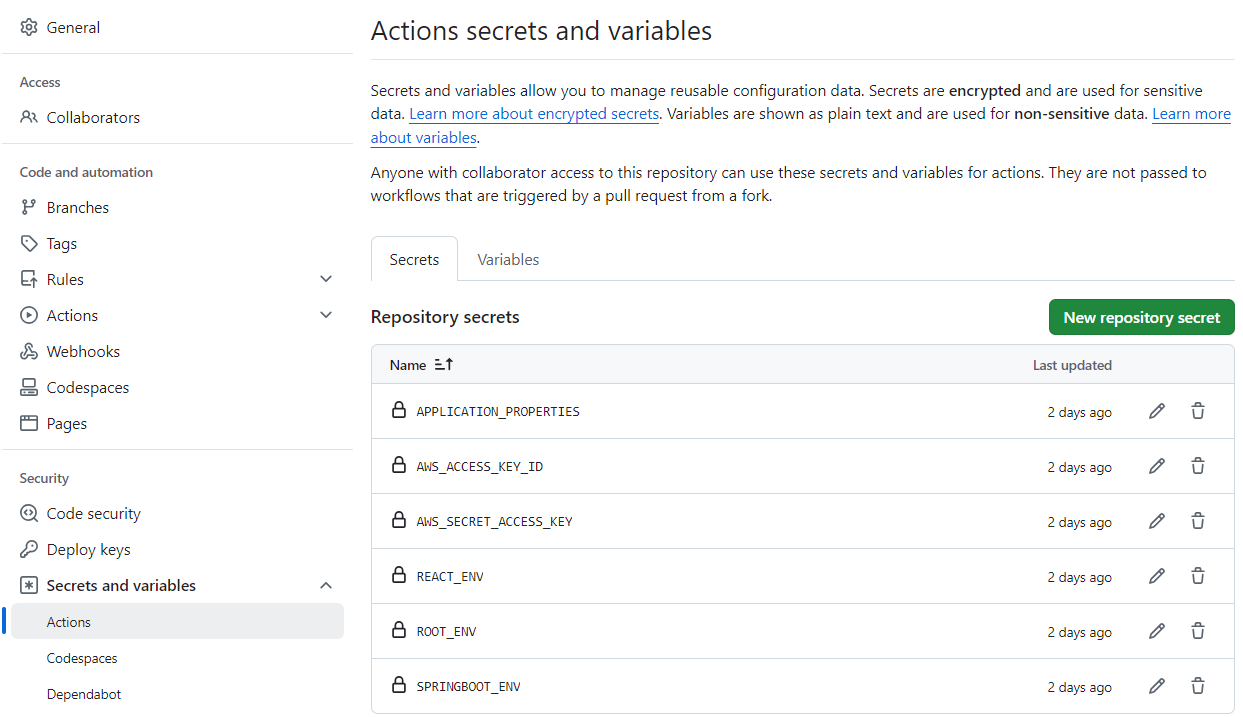
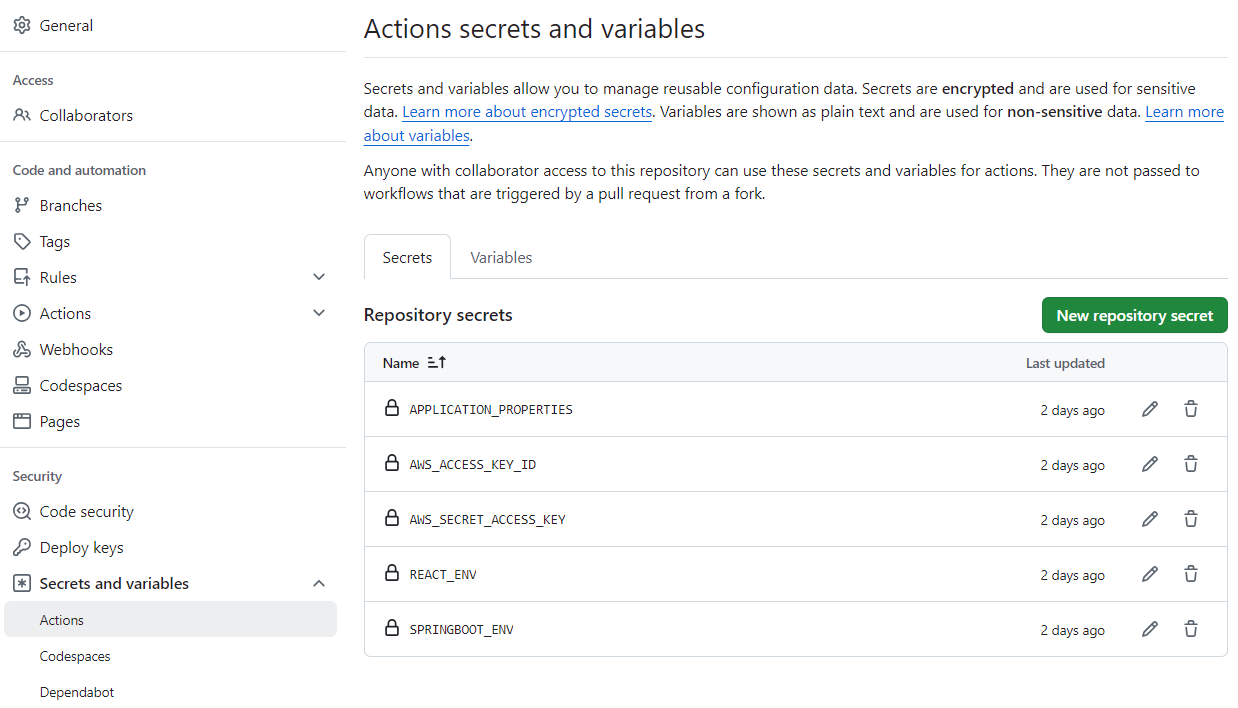
refactor(root.env): 배포 환경에서 root 경로의 .env 파일 제거
root 경로의 .env 파일은 docker-compose.yml 파일을 실행시키기 위해 필요한 환경 변수 파일이므로 배포환경에서 제외

diff --git a/docs/README.md b/docs/README.md
@@ -24,7 +24,7 @@
     - `SERVER_PORT` : 애플리케이션이 컨테이너 내에서 통신하는 포트 ( 노출되면 안되는 포트 )
     - Vite에서는 보안이 필요한 환경변수의 유출을 막기 위해서 `VITE_`으로 시작하지 않는 환경변수는 무시되기 때문에 `VITE_SPRINGBOOT_HOST_PORT`가 필요합니다.
     - `IP_ADDRESS` : 사용하는 도메인 혹은 로드밸런서 DNS이름으로 설정해주세요. 만약 로컬 환경이라면 `localhost`로 설정해주세요.
-    - `root/.env`
+    - `root/.env` : 로컬 환경에서 docker-compose.yml 파일을 실행시키기 위해 필요한 환경 변수 파일입니다.
         ```
         # 예시
         SPRINGBOOT_HOST_PORT=8081
@@ -33,7 +33,7 @@
         REACT_HOST_PORT=3001
         REACT_SERVER_PORT=3000
         ```
-    - `react-app/.env`
+    - `react-app/.env` : React 애플리케이션 환경을 실행시키기 위해 필요한 환경 변수 파일입니다.
         ```
         # 예시
         VITE_REACT_SERVER_PORT=3000
@@ -41,7 +41,7 @@
 
         VITE_IP_ADDRESS=localhost
         ```
-    - `springboot-app/.env`
+    - `springboot-app/.env` : Springboot 애플리케이션 환경을 실행시키기 위해 필요한 환경 변수 파일입니다.
         ```
         # 예시
         REACT_HOST_PORT=3001
